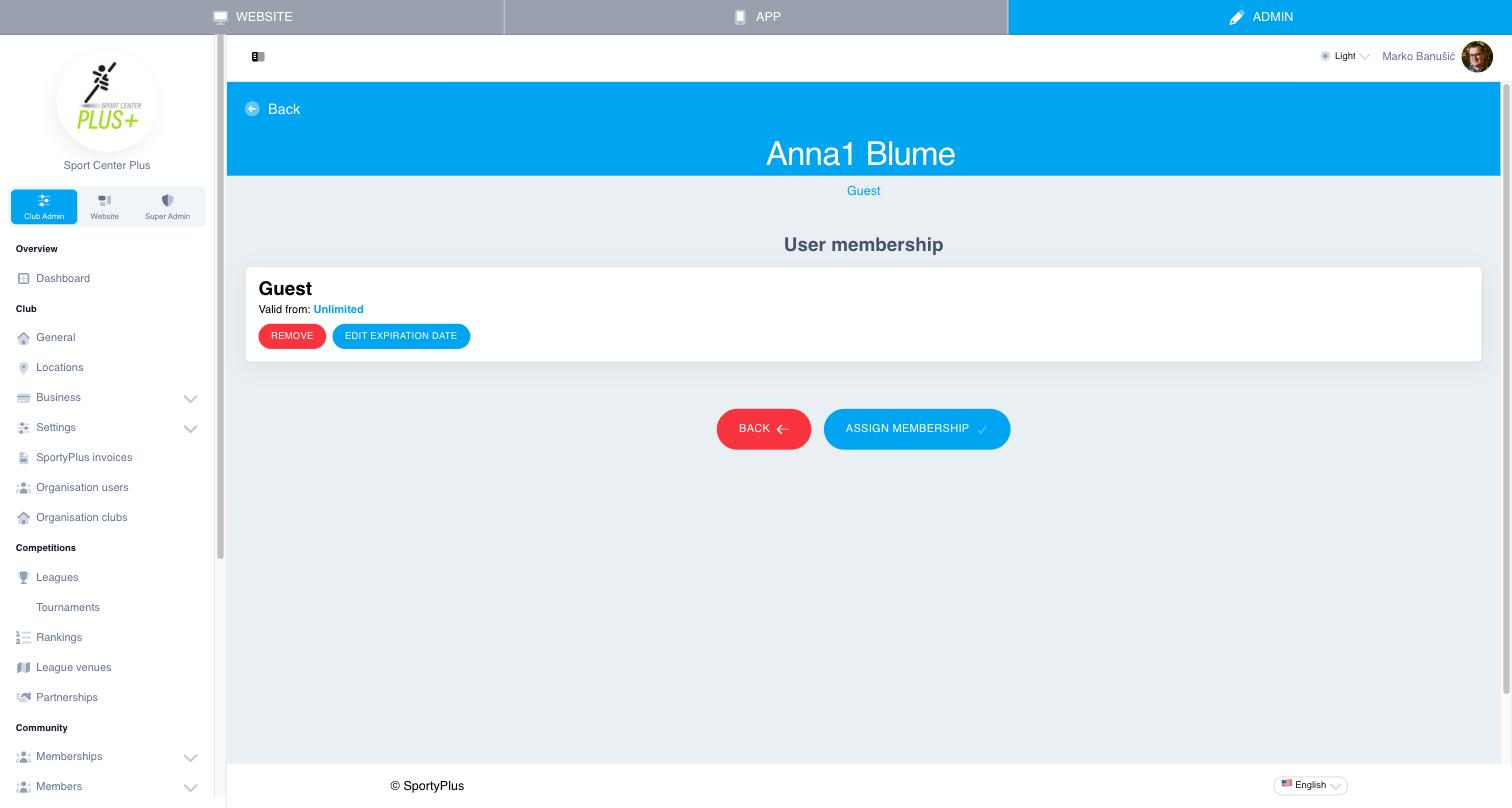
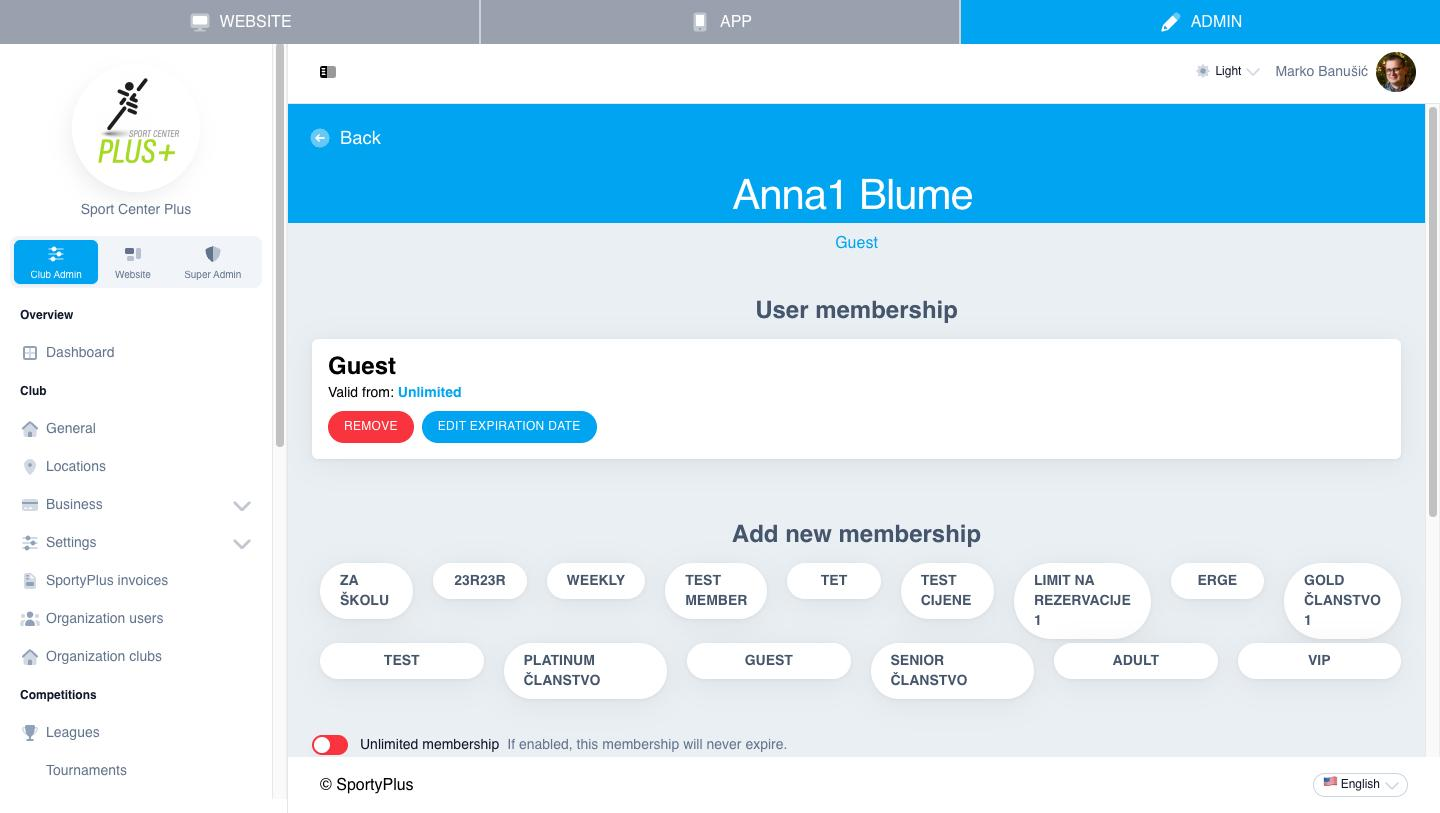
Document removing members, assigning memberships and pending requests
The member list now takes someone out of the club instead of deleting
their account, a member's membership page can assign a plan, and Members →
Pending requests approves or rejects sign-ups that Validate users holds
back. The deletion warning gives way to a "Removing a member" section, and
Sign-up links to the approval page. Screenshots are new, from Sport Center Plus.

Claude-Session: https://claude.ai/code/session_01QDAbCmf9L3oSujs59KhLcY

diff --git a/content/1.interface/02.members/1.index.md b/content/1.interface/02.members/1.index.md
@@ -25,11 +25,7 @@ Use **Search** to find someone by name or email. The list shows 15 people per pa
 The icons on each row:
 
 - The eye and the pencil both open the member's page.
-- The red cross deletes the member, after you confirm.
-
-::warning
-Deleting a member deletes their SportyPlus account, not only their place in your club. To stop someone using the club, remove their membership instead (see [Changing a member's membership](#changing-a-members-membership)).
-::
+- The red cross removes the member from your club (see [Removing a member](#removing-a-member)).
 
 ## Adding a member
 
@@ -54,6 +50,7 @@ On the same tab:
 - **User membership** lists their memberships, and how long each is valid.
 - **Change password** sets a new password for them.
 - **Assign role to member** gives them one of your club's [roles](/interface/settings/administrators-and-roles#roles).
+- **Remove from club**, at the bottom, takes them out of your club (see [Removing a member](#removing-a-member)).
 
 The **Orders** tab lists everything they have bought from the club.
 
@@ -68,7 +65,34 @@ For each membership they hold, you can:
 - **Edit expiration date** — change when it starts and ends, for example to extend a membership as a goodwill gesture.
 - **Remove** — take the membership away.
 
-Members usually get a paid membership by buying it themselves, on your website or in the app.
+To give them another membership, for example one they paid for at the desk:
+
+1. Under **Add new membership**, pick the plan.
+2. Switch on **Unlimited membership** for one that never expires, or set its start and end dates.
+3. Choose **Assign membership**. The button stays disabled until you pick a plan.
+
+A member can't hold the same plan twice. Members usually get a paid membership by buying it themselves, on your website or in the app.
+
+## Removing a member
+
+The red cross on the member list, or **Remove from club** on a member's page, takes someone out of your club. To remove several people at once, tick them and choose **Delete selected**.
+
+![Removing a member](/images/members-remove.jpg)
+
+Their memberships at your club end, and they can no longer book here. Their SportyPlus account stays, along with any other clubs they belong to. They can join your club again later.
+
+Removing someone doesn't change their staff access. To take that away, remove them under [Administrators](/interface/settings/administrators-and-roles#adding-an-administrator).
+
+People delete their own SportyPlus account themselves, from **My profile**.
+
+## Approving new members
+
+If your club approves sign-ups by hand (**Settings → Signup → Validate users**), new people wait in **Members → Pending requests** until you let them in. Until then they can't book.
+
+![Pending requests](/images/members-pending.jpg)
+
+- **Approve** makes them a member and gives them your club's [basic membership](/interface/memberships#basic-membership). If you have a "user joined the club" email template, they receive it.
+- **Reject** turns the request down, after you confirm. They can't book at your club, but their SportyPlus account stays, and they can ask again.
 
 ## Staff
 

diff --git a/content/1.interface/12.settings/3.signup-and-legal.md b/content/1.interface/12.settings/3.signup-and-legal.md
@@ -16,7 +16,7 @@ seo:
 
 ### User validation
 
-**Validate users** makes every new sign-up wait for your approval. Until you approve them, they can't book or buy anything at your club. Use it for private clubs, and leave it off if anyone may play.
+**Validate users** makes every new sign-up wait for your approval. Until you approve them, they can't book or buy anything at your club. Approve or reject them under [Members → Pending requests](/interface/members#approving-new-members). Use it for private clubs, and leave it off if anyone may play.
 
 ### Asking people to join
 
